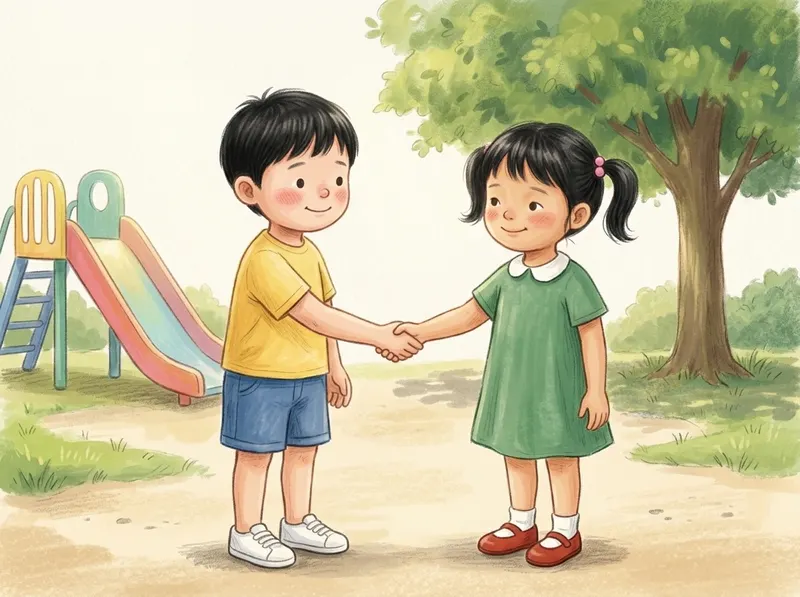
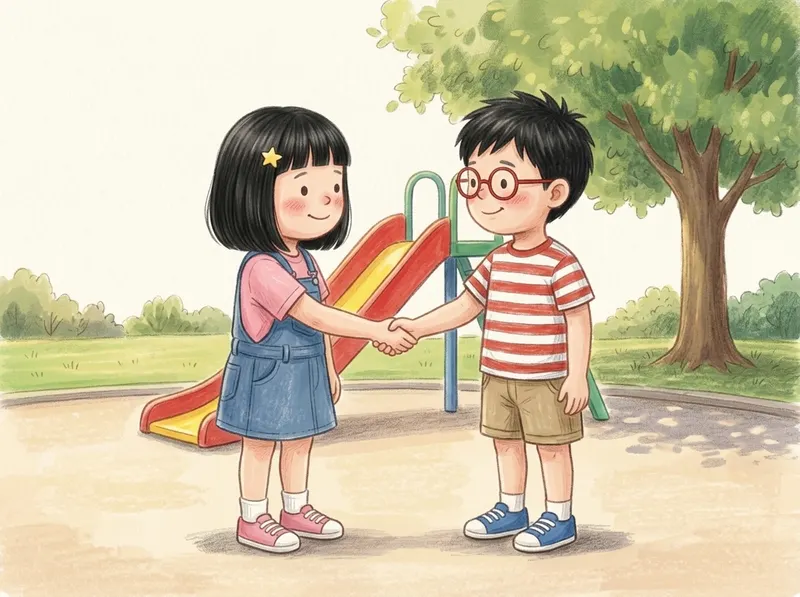
abc: 插圖主角以女生 Ella 為主、Leo 為輔，朋友 Mia、Ben
Claude-Session: https://claude.ai/code/session_01AJHQK3pk49v8WnKBU5f8ut

diff --git a/abc/tools/studio/SCENES.md b/abc/tools/studio/SCENES.md
@@ -1,48 +1,49 @@
 # 情境插圖清單（preset：情境插圖，4:3）
 
 **檔名**要照這裡寫，存成 `art/<檔名>.png`。遊戲會照這個名字找圖，沒有圖的就繼續用現在的畫。
+**主角**：以女生 Ella 為主（15 張）、男生 Leo 為輔（9 張）；朋友有 Mia（女）和 Ben（男）。
 **提示詞**：整段英文貼進去；角色欄填「角色」那一格的代號，參考圖用 `art/chars/<代號>.png`。
 
 ## 🌅 Morning to Night（從早到晚）
 
 | 檔名 | 遊戲裡的句子 | 角色 | 提示詞 |
 |---|---|---|---|
-| `alarm` | The alarm rings. Mom opens the door. → Time to get up! | leo, mom | Early morning in Leo's bedroom. Leo is still asleep in bed under a blue blanket. A red alarm clock is ringing on the bedside table (little motion lines around it). Mom has just opened the bedroom door and smiles, one hand on the door. Morning sunlight comes through the curtains. |
+| `alarm` | The alarm rings. Mom opens the door. → Time to get up! | ella, mom | Early morning in Ella's bedroom. Ella is still asleep in bed under a pink blanket. A red alarm clock is ringing on the bedside table (little motion lines around it). Mom has just opened the bedroom door and smiles, one hand on the door. Morning sunlight comes through the curtains. |
 | `brushteeth` | You go to the bathroom. → Let's brush our teeth. | leo | Leo stands at the bathroom sink in pyjamas, brushing his teeth with a blue toothbrush, a little white foam at his mouth, looking at himself in the mirror. A cup with toothbrushes and a towel nearby. |
-| `breakfast` | You sit at the table. You are hungry. → What's for breakfast? | leo | Leo sits at the kitchen table in the morning holding a spoon, licking his lips, looking eagerly at an empty bowl and plate; Mom's hands are just bringing a jug of milk in from the side. Bright morning kitchen. |
-| `shoes` | It is time to go out. → Put on your shoes. | leo | Leo stands by the front door wearing only white socks, about to go out. His sneakers are on the doormat next to him, not on his feet yet. His backpack hangs by the door. |
+| `breakfast` | You sit at the table. You are hungry. → What's for breakfast? | ella | Ella sits at the kitchen table in the morning holding a spoon, licking her lips, looking eagerly at an empty bowl and plate; Mom's hands are just bringing a jug of milk in from the side. Bright morning kitchen. |
+| `shoes` | It is time to go out. → Put on your shoes. | ella | Ella stands by the front door wearing only white socks, about to go out. Her pink sneakers are on the doormat next to her, not on her feet yet. Her backpack hangs by the door. |
 | `leave` | You have your backpack. Dad is at the door. → Let's go! | leo, dad | Leo, wearing a small purple backpack and shoes, walks toward the open front door. Dad stands at the door holding car keys, waving him to come. Sunny morning outside. |
-| `dirtyhands` | You come in from the park. Your hands are dirty. → Wash your hands. | leo | Leo has just come home from the park and holds up both hands, which are covered in brown mud; a little mud on his knees too. He is next to the bathroom sink with a bar of soap. |
+| `dirtyhands` | You come in from the park. Your hands are dirty. → Wash your hands. | ella | Ella has just come home from the park and holds up both hands, which are covered in brown mud; a little mud on her knees too. She is next to the bathroom sink with a bar of soap. |
 | `lunch` | It is twelve o'clock. The food is ready. → Time for lunch! | — | A family lunch table at noon: bowls of rice, a plate of vegetables, chicken, soup with a little steam, chopsticks set out for three. A wall clock shows twelve o'clock. No people. |
-| `playout` | The sun is out. You want to go out. → Can I play outside? | mia | Mia stands at a big window, hands on the sill, looking out longingly at a sunny playground with a slide and swings. A ball lies on the floor beside her. |
+| `playout` | The sun is out. You want to go out. → Can I play outside? | ella | Ella stands at a big window, hands on the sill, looking out longingly at a sunny playground with a slide and swings. A ball lies on the floor beside her. |
 | `messytoys` | Your toys are all over the floor. → Clean up your toys. | leo | A living-room floor covered with scattered toys: blocks, a toy car, a teddy bear, a ball, picture books. Leo stands by an empty toy box, looking at the mess with a surprised face. |
-| `cooking` | Dad is cooking. It smells good! → Dinner is ready! | dad, mia | Evening kitchen. Dad in an apron stirs a pot of soup on the stove; steam and a lovely smell rise from it. Mia stands nearby, eyes closed, happily sniffing the air. |
-| `bath` | You are dirty after playing. → Time for a bath. | leo | Leo, with muddy clothes and smudges on his face and arms after playing outside, stands next to a bathtub full of bubbles with a yellow rubber duck. |
-| `story` | You are in bed. You want a story. → Can you read me a story? | leo, mom | Bedtime. Leo sits up in bed in pyjamas holding a picture book out toward Mom, who is sitting on the edge of the bed. A warm bedside lamp is on; dark blue night outside the window. |
+| `cooking` | Dad is cooking. It smells good! → Dinner is ready! | dad, ella | Evening kitchen. Dad in an apron stirs a pot of soup on the stove; steam and a lovely smell rise from it. Ella stands nearby, eyes closed, happily sniffing the air. |
+| `bath` | You are dirty after playing. → Time for a bath. | ella | Ella, with muddy clothes and smudges on her face and arms after playing outside, stands next to a bathtub full of bubbles with a yellow rubber duck. |
+| `story` | You are in bed. You want a story. → Can you read me a story? | ella, mom | Bedtime. Ella sits up in bed in pink pyjamas holding a picture book out toward Mom, who is sitting on the edge of the bed. A warm bedside lamp is on; dark blue night outside the window. |
 | `lightoff` | Mom turns off the light. → Sweet dreams! | leo, mom | Night. Leo is asleep in bed hugging a teddy bear. Mom stands at the bedroom door with her hand on the light switch, smiling softly; light from the hallway behind her, the moon and stars in the window. |
 
 ## 💬 What do you say?（生活用語）
 
 | 檔名 | 遊戲裡的句子 | 角色 | 提示詞 |
 |---|---|---|---|
-| `present` | Grandma gives you a present. → Thank you! | grandma, leo | In a cozy living room, Grandma smiles and hands Leo a present wrapped in red paper with a yellow ribbon. Leo reaches for it with both hands, delighted. |
-| `sneeze` | Your friend sneezes. Achoo! → Bless you! | mia, leo | Mia sneezes into a tissue (eyes squeezed shut, tiny droplets in the air); Leo stands next to her, looking at her kindly. Indoors, simple background. |
+| `present` | Grandma gives you a present. → Thank you! | grandma, ella | In a cozy living room, Grandma smiles and hands Ella a present wrapped in red paper with a yellow ribbon. Ella reaches for it with both hands, delighted. |
+| `sneeze` | Your friend sneezes. Achoo! → Bless you! | ben, ella | Ben sneezes into a tissue (eyes squeezed shut, tiny droplets in the air); Ella stands next to him, looking at him kindly. Indoors, simple background. |
 | `spill` | Oops! You spill the milk. → I'm sorry. | leo | At the kitchen table, a glass has just tipped over and milk is spreading across the table and dripping onto the floor. Leo stands beside it with both hands on his cheeks, shocked. |
-| `wakeup` | You wake up. The sun is up. → Good morning! | leo | Morning sunshine pours into the bedroom. Leo sits up in bed in pyjamas, stretching both arms up high and yawning, curtains open, sun visible outside. |
+| `wakeup` | You wake up. The sun is up. → Good morning! | ella | Morning sunshine pours into the bedroom. Ella sits up in bed in pink pyjamas, stretching both arms up high and yawning, curtains open, sun visible outside. |
 | `bedtime` | It is time for bed. → Good night! | leo | Night. Leo in pyjamas rubs his sleepy eyes and yawns, holding a teddy bear, standing next to his bed with the blanket turned down. The moon in the window; the clock shows eight. |
 | `goinghome` | Your friend is going home. → See you later! | mia, leo | At the front door in the late afternoon, Mia with her backpack on is stepping outside and waving goodbye; Leo waves back from inside the house. |
-| `birthday` | It is your friend's birthday. → Happy birthday! | mia | Mia wears a paper party hat and smiles in front of a birthday cake with lit candles on a table; balloons and colourful bunting behind her. |
-| `newfriend` | You meet a new friend. → Nice to meet you! | leo, mia | At a sunny playground, Leo and Mia meet for the first time and shake hands, both smiling a little shyly; a slide and a tree behind them. |
-| `cookie` | Mom asks, do you want a cookie? → Yes, please! | mom, leo | In the kitchen, Mom bends down a little and offers Leo a plate of fresh chocolate-chip cookies with a questioning smile. Leo looks at the cookies with wide happy eyes. |
+| `birthday` | It is your friend's birthday. → Happy birthday! | ben | Ben wears a paper party hat and smiles in front of a birthday cake with lit candles on a table; balloons and colourful bunting behind him. |
+| `newfriend` | You meet a new friend. → Nice to meet you! | ella, ben | At a sunny playground, Ella and Ben meet for the first time and shake hands, both smiling a little shyly; a slide and a tree behind them. |
+| `cookie` | Mom asks, do you want a cookie? → Yes, please! | mom, ella | In the kitchen, Mom bends down a little and offers Ella a plate of fresh chocolate-chip cookies with a questioning smile. Ella looks at the cookies with wide happy eyes. |
 | `winrace` | Your friend wins the race. → Good job! | mia, leo | At a school sports day, Mia runs through the finish-line ribbon first with both arms raised, a gold medal on her chest. Leo cheers and claps at the side of the track. |
-| `inway` | Someone is in your way. → Excuse me. | leo | A very narrow apartment hallway seen from behind Leo. A tall grown-up man (a neighbour in a grey sweater, NOT Dad) stands right in the middle of the narrow hallway with his back to us, looking at his phone, completely blocking the way so nobody can pass on either side. Leo stands just behind him holding a ball, looking up at the man, politely waiting to get past. |
+| `inway` | Someone is in your way. → Excuse me. | ella | A very narrow apartment hallway seen from behind Ella. A tall grown-up man (a neighbour in a grey sweater, NOT Dad) stands right in the middle of the narrow hallway with his back to us, looking at his phone, completely blocking the way so nobody can pass on either side. Ella stands just behind him holding a ball, looking up at the man, politely waiting to get past. |
 | `keys` | Dad asks for his keys. You give them to him. → Here you are. | dad, leo | By the front door, Dad holds out his open hand. Leo hands him a bunch of keys (a big gold key and a small silver key on a ring). |
-| `stuck` | Your balloon is stuck in a tree. → Help me, please. | mia | Outdoors, a red balloon is caught high in the branches of a tree, its string tangled. Mia stands below, pointing up at it with a sad, worried face. |
+| `stuck` | Your balloon is stuck in a tree. → Help me, please. | ella | Outdoors, a red balloon is caught high in the branches of a tree, its string tangled. Ella stands below, pointing up at it with a sad, worried face. |
 
 ## 怎麼產生的（2026-11-22）
 
 - image-studio 專案放在 MK 的 Mac：`~/main/image-studio/projects/abc/`（這個資料夾的 `image-studio.json`、`CHARACTERS.md` 和這裡同步），已登記在 image-studio 的 `projects.json`。
-- 先用「角色定裝」生五個角色（Leo、Mia 各生 2 張挑 1），存成 `art/chars/<代號>.png`；再用 CLI `generate` 一張張生情境圖，參考圖帶上出場角色的定稿圖。
+- 先用「角色定裝」生七個角色（Ella、Leo、Mia、Ben 各生 2 張挑 1），存成 `art/chars/<代號>.png`；再用 CLI `generate` 一張張生情境圖，參考圖帶上出場角色的定稿圖。
 - 原圖（1200×900 PNG）在 `art/<檔名>.png`，所有候選在 `art/studio/<時間>/`。遊戲用的是縮成 800×600 的 WebP（品質 78，每張 30～70 KB），放在 `abc/art/`。
 - 遊戲裡 `ART` 的 `PAINTED` 清單列出有畫好圖片的檔名；不在清單裡的，照舊用程式畫的 SVG。
 

diff --git a/abc/README.md b/abc/README.md
@@ -33,7 +33,7 @@
 | 🚀 Next Level ⭐⭐ | 下一階段（2026-11）：**👂 Dictation 聽寫**（沒有圖、沒有提示字，只聽 Pip 唸單字再拼，三個字母和進階單字混合，多 3 個干擾字母；拼完才出現圖）。**📰 Read It!**（只顯示一句話、Pip 不唸，自己讀完選圖：The duck is under the table.／I see three cats.／I am swimming.；選項是同一隻動物不同位置或不同動物、不同數量、不同動作，要每個字都讀懂；錯兩次 Pip 才唸出來）。**🪜 Change a Letter**（cat → hat：看兩張圖，新字缺一個字母，選出要換的字母）。**🦉 ar, or, ow**（第二組母音組合：car、fork、cow…）。**🏃 I am ___ing**（I can run.／Look at me! I am running.）。**🚌 Went, ate, saw**（不規則過去式，Yesterday／Today 標籤）。後四組都有 📖 Learn。**📚 第三級故事書 ⭐⭐**：Pip and the Storm、Lily's First Day，題目會問 why |
 | 📖 Learn | 先教再玩。Words 每一組（含 Actions、Describing）、Sentences 區的五組填空，和 Rhyme、Opposites、Big & Small，進到遊戲後上方有「📖 Learn」按鈕（不會自動跳出）。上課照「我說、一起說、你來」：一次一張大圖＋字，Pip 唸出來，再說「Say it with me!」（點圖可以再聽，按 🎤 可以跟著唸，Pip 會回應）；每教 3～4 個，就用剛教的內容出 1～2 題小確認（答錯會唸出選到的是什麼，錯兩次提示答案）。教完按 ▶ Play 直接進遊戲，🔁 再上一次。一次教 8 個，下次打開接著教後面的 |
 | 🎲 Games | 小遊戲區（7 個）：🎵 Rhyme 押韻（22 組字族）、🃏 Memory 翻牌（任一組單字的 6 對圖）、🙋 Simon Says（聽指令點身體部位）、↔ Opposites 相反詞（12 組）、❓ What's Missing?（看圖補字母，多半是中間的母音）、🔡 ABC Order（「a b _」接下一個字母）、🅰 Big & Small（大寫配小寫，常混入 b/d/p/q 這類長得像的字母） |
-| 🎨 情境插圖（ART） | 💬 What do you say? 和 🌅 Morning to Night 的 26 個情境是用 image-studio（Gemini）生的繪本風插圖：水粉加色鉛筆畫風，固定五個角色（Leo、Mia、媽媽、爸爸、奶奶），每張都照句子畫，例如只穿襪子站在門口、氣球卡在樹上。圖片在 `abc/art/*.webp`（800×600），生圖設定和提示詞在 `tools/studio/`（見 SCENES.md）。沒有圖片的情境，照舊用程式畫的 SVG（`ART` 小工具組） |
+| 🎨 情境插圖（ART） | 💬 What do you say? 和 🌅 Morning to Night 的 26 個情境是用 image-studio（Gemini）生的繪本風插圖：水粉加色鉛筆畫風，固定七個角色：主角「你」以女生 Ella 為主、男生 Leo 為輔，朋友 Mia（女）和 Ben（男），加上媽媽、爸爸、奶奶，每張都照句子畫，例如只穿襪子站在門口、氣球卡在樹上。圖片在 `abc/art/*.webp`（800×600），生圖設定和提示詞在 `tools/studio/`（見 SCENES.md）。沒有圖片的情境，照舊用程式畫的 SVG（`ART` 小工具組） |
 | 🆕 2026-11 日常用語 | Sentences 區新增 **🌅 Morning to Night**（一天從早到晚的生活用語，題目照時間順序：早上兩題、下午兩題、晚上兩題，圖上有 🌅 Morning／☀ Afternoon／🌙 Night 標籤；Pip 說「It is morning. The alarm rings. Mom opens the door. What do we say?」→ Time to get up!；共 13 句：Let's brush our teeth.、What's for breakfast?、Put on your shoes.、Wash your hands.、Time for lunch!、Clean up your toys.、Time for a bath.、Can you read me a story?、Sweet dreams!…）、**🙋 Ask and Answer**（日常問答：Pip 問、孩子選回答，How are you?／Are you hungry?／Can you swim?／Do you like apples?／What time is it?…14 組；答案用不同的小字 am、can、do、isn't，只有一個說得通）。兩組都有 Learn |
 | 🆕 2026-11 單字與片語 | **Things 新增 5 組**：🍳 In the kitchen、🏞 Places、🎸 Music、⚽ Sports、🌦 Weather（「It is sunny.」「What is the weather like?」）。Words 區新增 **🎣 More actions**（cooking、fishing、juggling…）、**🧸 Describing 2**（heavy、soft、sharp、smelly…），都有 Learn。**🙃 Odd One Out**（四張圖找出不同類的：Which one is not something to eat?／an animal／for music…；選錯會說「Banana. It is something to eat.」）。**🌻 Two Words, One Word ⭐**（複合字：看向日葵 🌻，sun ___ 選 flower；sunflower、rainbow、cupcake、butterfly、toothbrush…12 個；會組成別的真字的選項不出現）。Sentences 區新增 **💬 What do you say?**（生活用語：看情境選要說的話——Thank you!、Bless you!、I'm sorry.、Excuse me.、Nice to meet you!…13 句；也算對的說法不會同時當選項）、**🪁 Word Pairs**（動詞搭配：I can ___ a kite → fly；ride a bike、brush my teeth、take a bath…13 組）。三組新填空都有 Learn |
 | 🆕 2026-10-28 | **🪥 My Day**（Words 區，日常作息：waking up、brushing teeth、taking a bath、going to bed…12 個，每張圖都是孩子在做那件事，有 Learn）。**🧸 Behind, between ⭐**（behind／in front of／between／next to the box，箱子和動物分層畫：behind 被箱子擋住一半、between 是兩個箱子中間；選項是整個片語）。**😊 How do I feel?**（看發生了什麼事推想心情：My balloon flew away. I feel ___；選項附表情，意思相近的心情不會同時出現；Learn 用新的情境出確認題）。**🧱 Make a Sentence**（看圖把字卡排成句子，例如 The dog / is / running.，多一張和圖不符的字卡；選錯會說「Look at the picture again」或「What comes first?」）。**🔎 Find it!**（聽力：公園、房間、農場、海邊四張大圖，每次換一張；前三題「Find the dog.」，後三題要聽位置、顏色、大小才分得出來：the cat under the tree／the cat next to the house、the red balloon、the big sheep；泡泡不顯示題目）。**🔢 Story Order**（Pip 講三段小故事，孩子依 First／Next／Last 排圖；剩最後一張時自動放上，不問沒有意義的題目；12 個故事，有 Learn）。手機橫拿時，填空和排句子畫面縮小圖片、🔊 改放在字卡旁，不再被切掉 |

diff --git a/abc/tools/studio/CHARACTERS.md b/abc/tools/studio/CHARACTERS.md
@@ -1,12 +1,12 @@
 # ABC Island 插圖角色
 
-image-studio 從這份檔案讀角色（標題格式 `## 名字 \`代號\``）。角色定稿圖在 image-studio 專案的 `art/chars/<代號>.png`，生情境圖時當參考圖，每張圖裡的人才會長得一樣。
+image-studio 從這份檔案讀角色（標題格式：`## 名字` 加上反引號包住的代號）。主角「你」以女生 Ella 為主、男生 Leo 為輔；朋友有女生 Mia 和男生 Ben。角色定稿圖在 image-studio 專案的 `art/chars/<代號>.png`，生情境圖時當參考圖。
 
 ## Leo `leo`
-The main character ("you" in the game): a cheerful 5-year-old Taiwanese boy, short soft black hair with a little fringe, round face, rosy cheeks, yellow T-shirt, blue shorts, white sneakers.
+The second main character ("you" in some scenes): a cheerful 5-year-old Taiwanese boy, short soft black hair with a little fringe, round face, rosy cheeks, yellow T-shirt, blue shorts, white sneakers.
 
 ## Mia `mia`
-Leo's best friend: a 5-year-old Taiwanese girl, black hair in two short pigtails with pink hair ties, green dress with a white collar, red shoes.
+A friend: a 5-year-old Taiwanese girl, black hair in two short pigtails with pink hair ties, green dress with a white collar, red shoes.
 
 ## Mom `mom`
 A kind Taiwanese mother in her thirties, shoulder-length dark brown hair, soft orange cardigan over a cream top, long blue skirt.
@@ -16,3 +16,9 @@ A friendly Taiwanese father in his thirties, short black hair, green polo shirt,
 
 ## Grandma `grandma`
 A smiling Taiwanese grandmother, short curly grey hair, round glasses, lavender blouse, dark trousers.
+
+## Ella `ella`
+The main character ("you" in the game, used most often): a bright, cheerful 5-year-old Taiwanese girl, shoulder-length straight black bob with a straight fringe and a small yellow star hair clip, round face, rosy cheeks, pink T-shirt, denim pinafore skirt, white socks, pink sneakers.
+
+## Ben `ben`
+A friend: a playful 5-year-old Taiwanese boy, short spiky black hair, round red glasses, red-and-white striped T-shirt, khaki shorts, blue sneakers.
